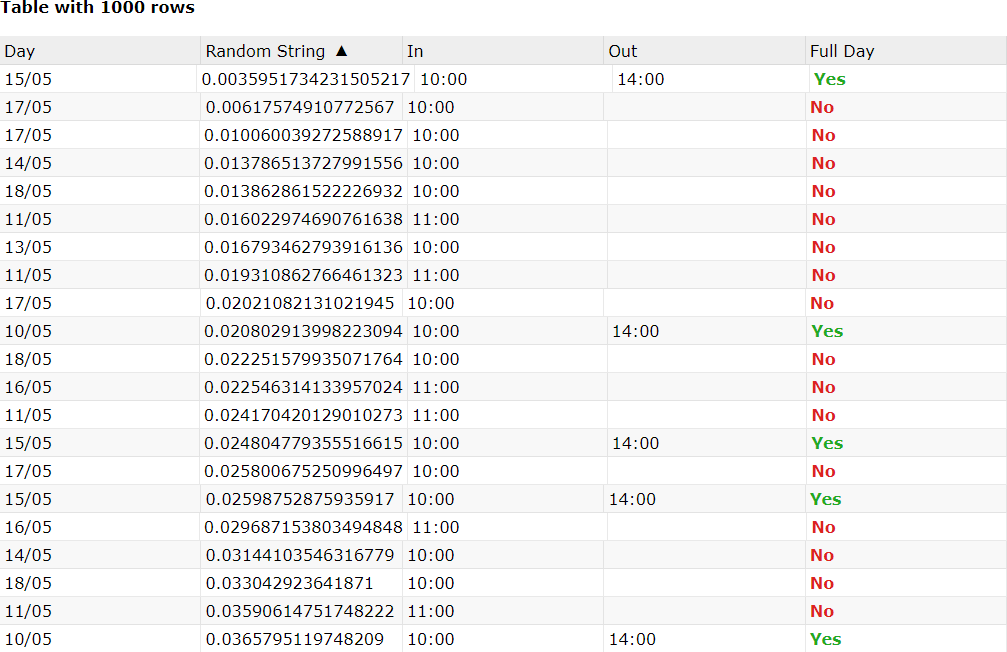
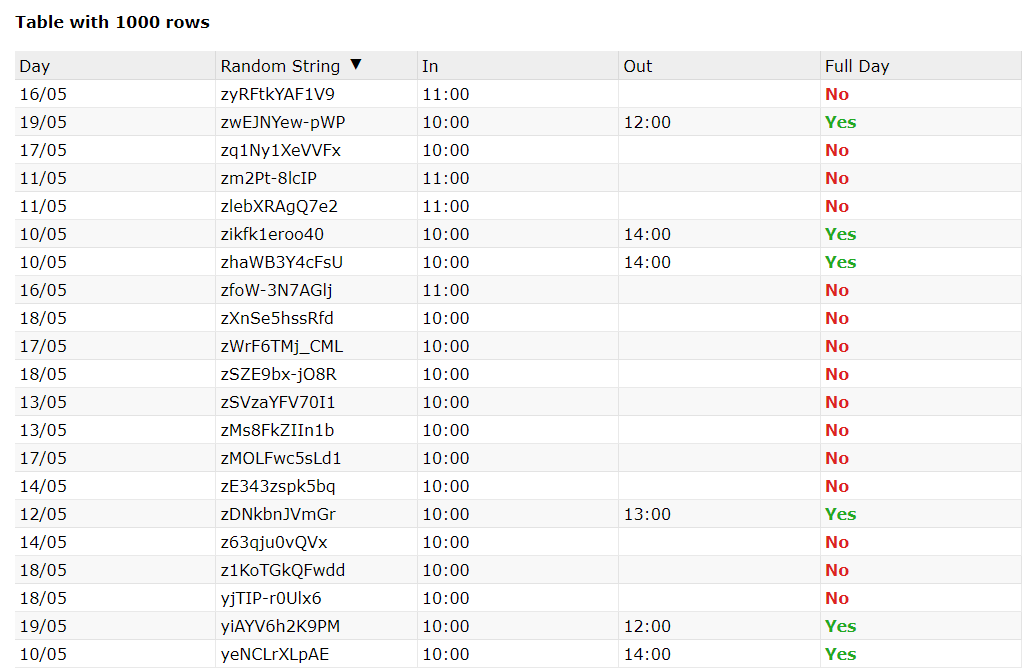
image

diff --git a/src/server/server.ts b/src/server/server.ts
@@ -1,6 +1,7 @@
 import {MonthlyCardsRow } from "../types";
 import { API_DELIMITER, DATE_DELIMITER } from "../utils/consts";
 import { dailyCards } from "./data";
+import shortid from 'shortid';
 
 export const API = {
 
@@ -18,6 +19,6 @@ export const API = {
 
     const LARGE_ARRAY = 100 ; 
     const arr = [].concat(...Array(LARGE_ARRAY).fill(cards)); // 1,000 rows
-    return arr.map((row:MonthlyCardsRow)=>{return {...row, id: Math.random()}})
+    return arr.map((row:MonthlyCardsRow)=>{return {...row, id: shortid.generate()}})
   }
 }

diff --git a/src/index.tsx b/src/index.tsx
@@ -1,8 +1,6 @@
 /* @refresh reload */
 import { render } from 'solid-js/web';
-import { Router } from "@solidjs/router";
 
 import {App} from './app';
 
-render(() => <Router><App/></Router>, 
-    document.getElementById('root') as HTMLElement);
+render(() => <App/>, document.getElementById('root') as HTMLElement);
